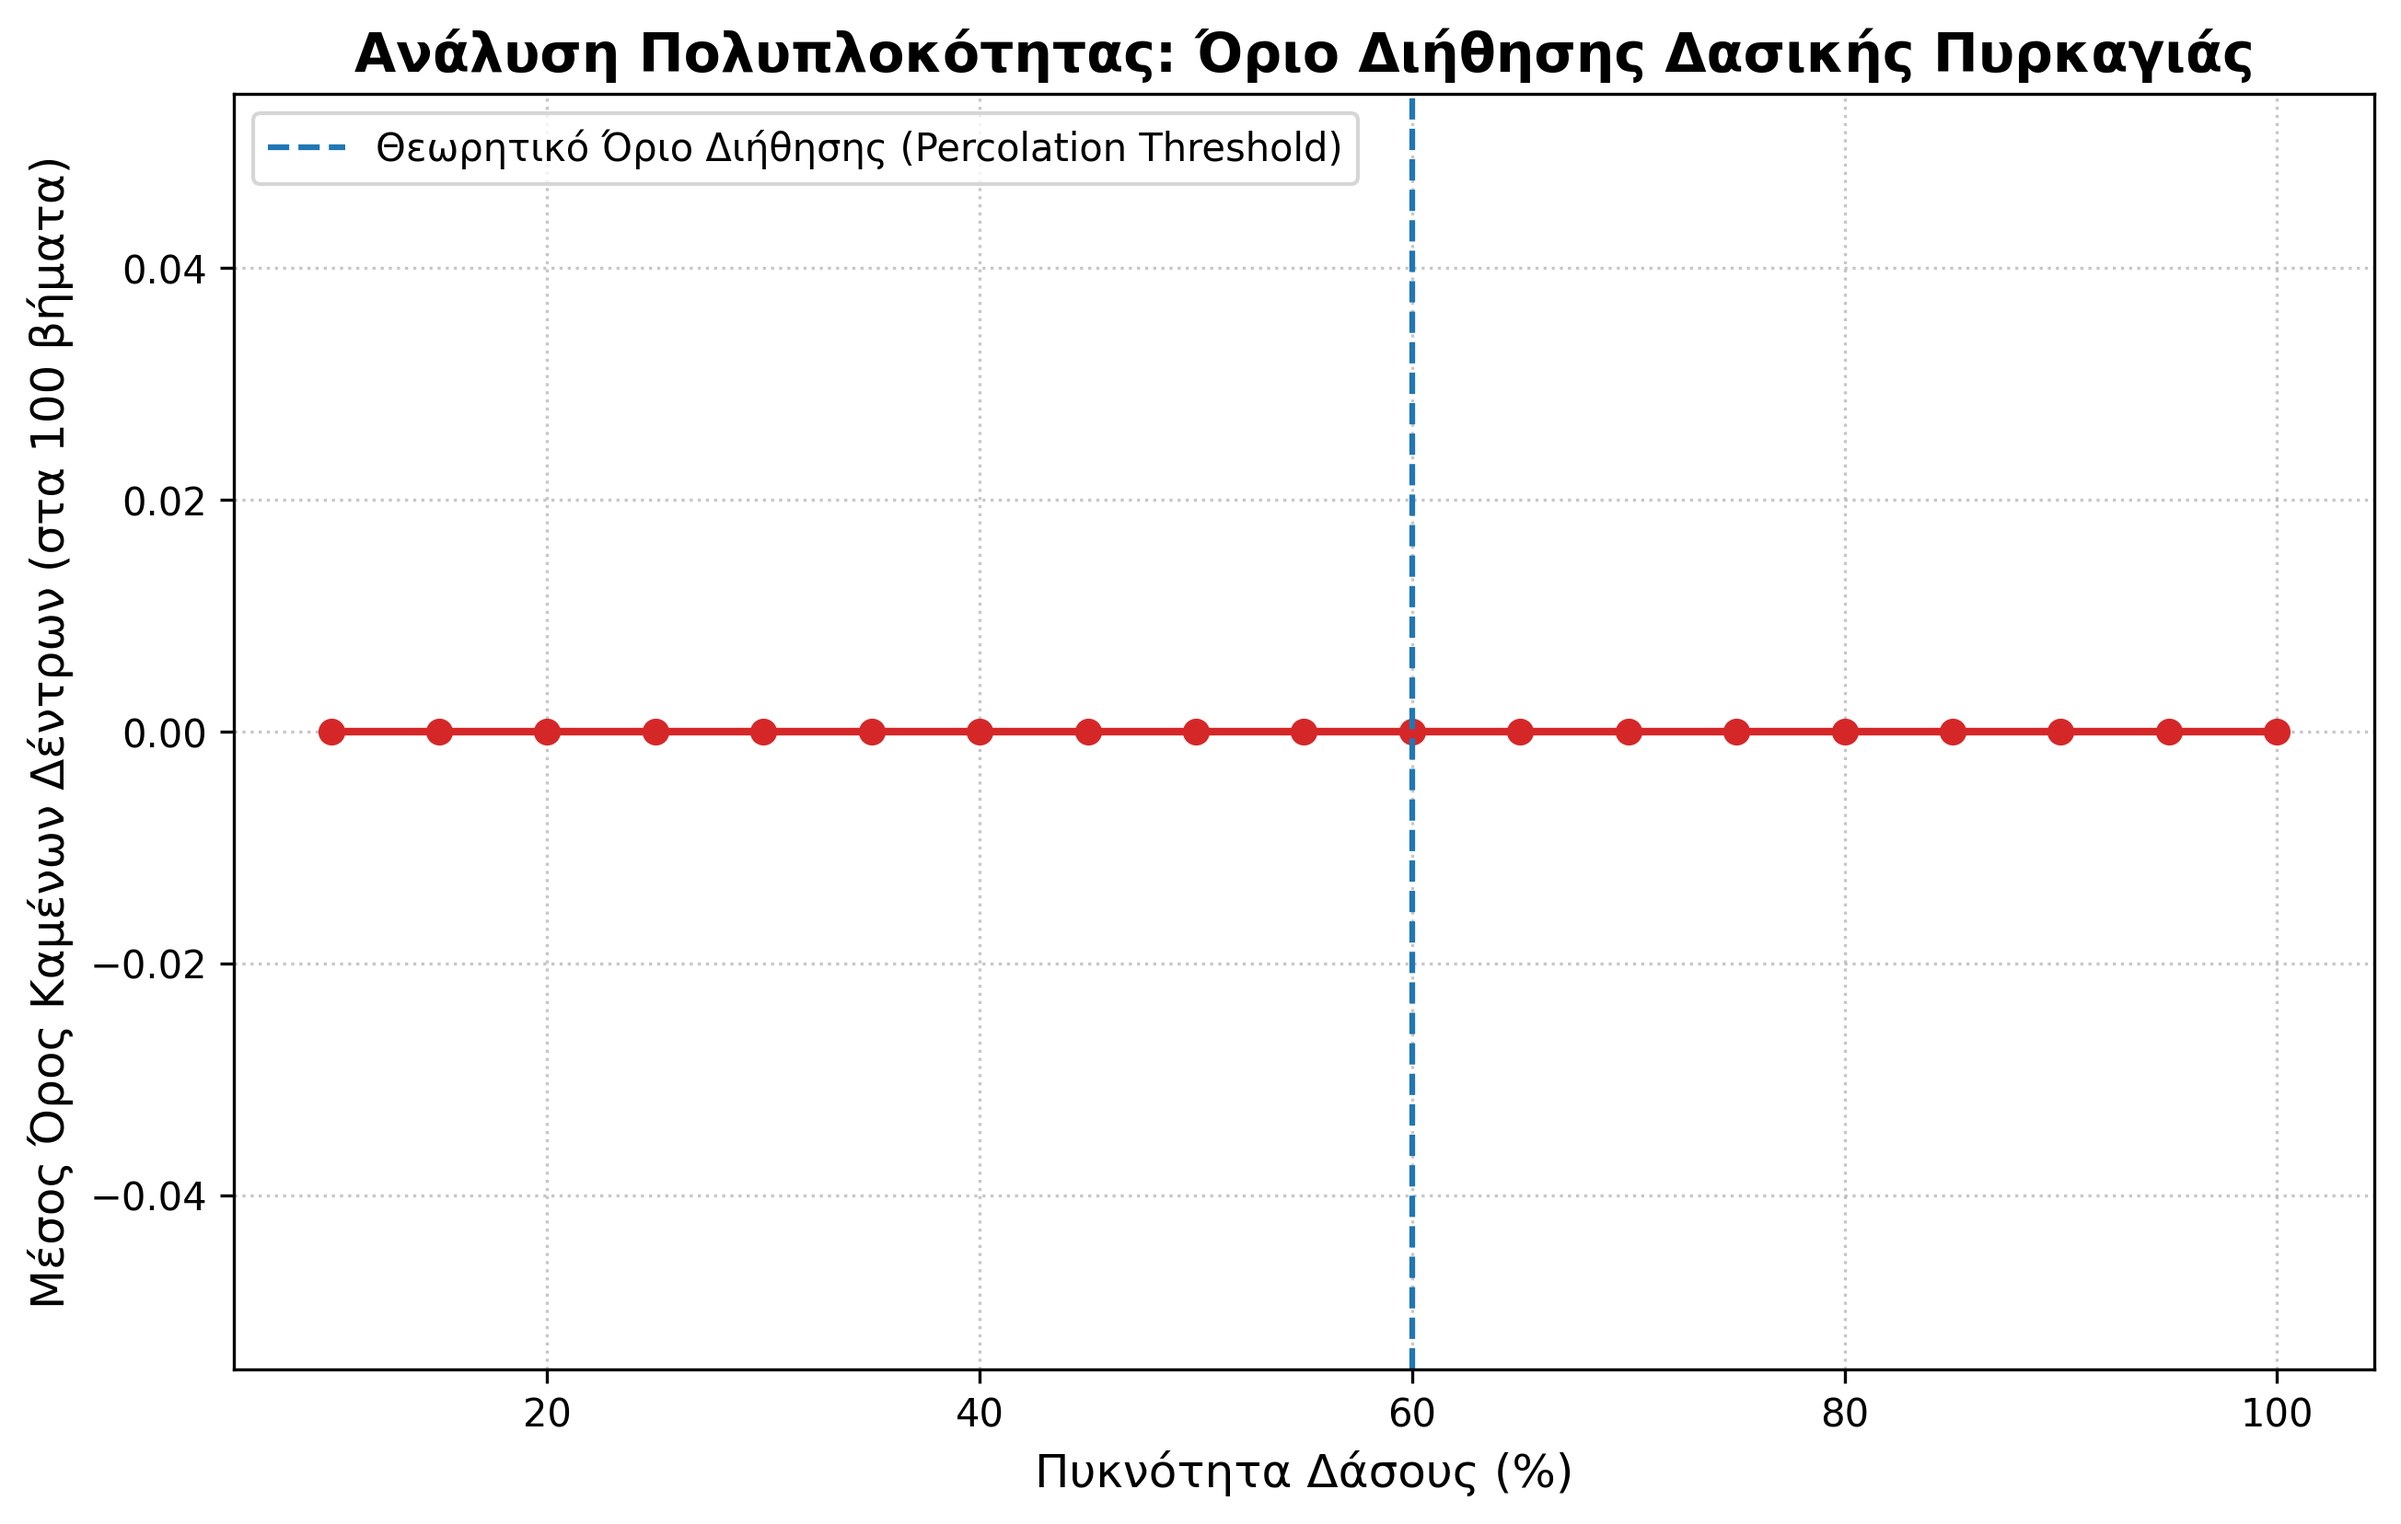
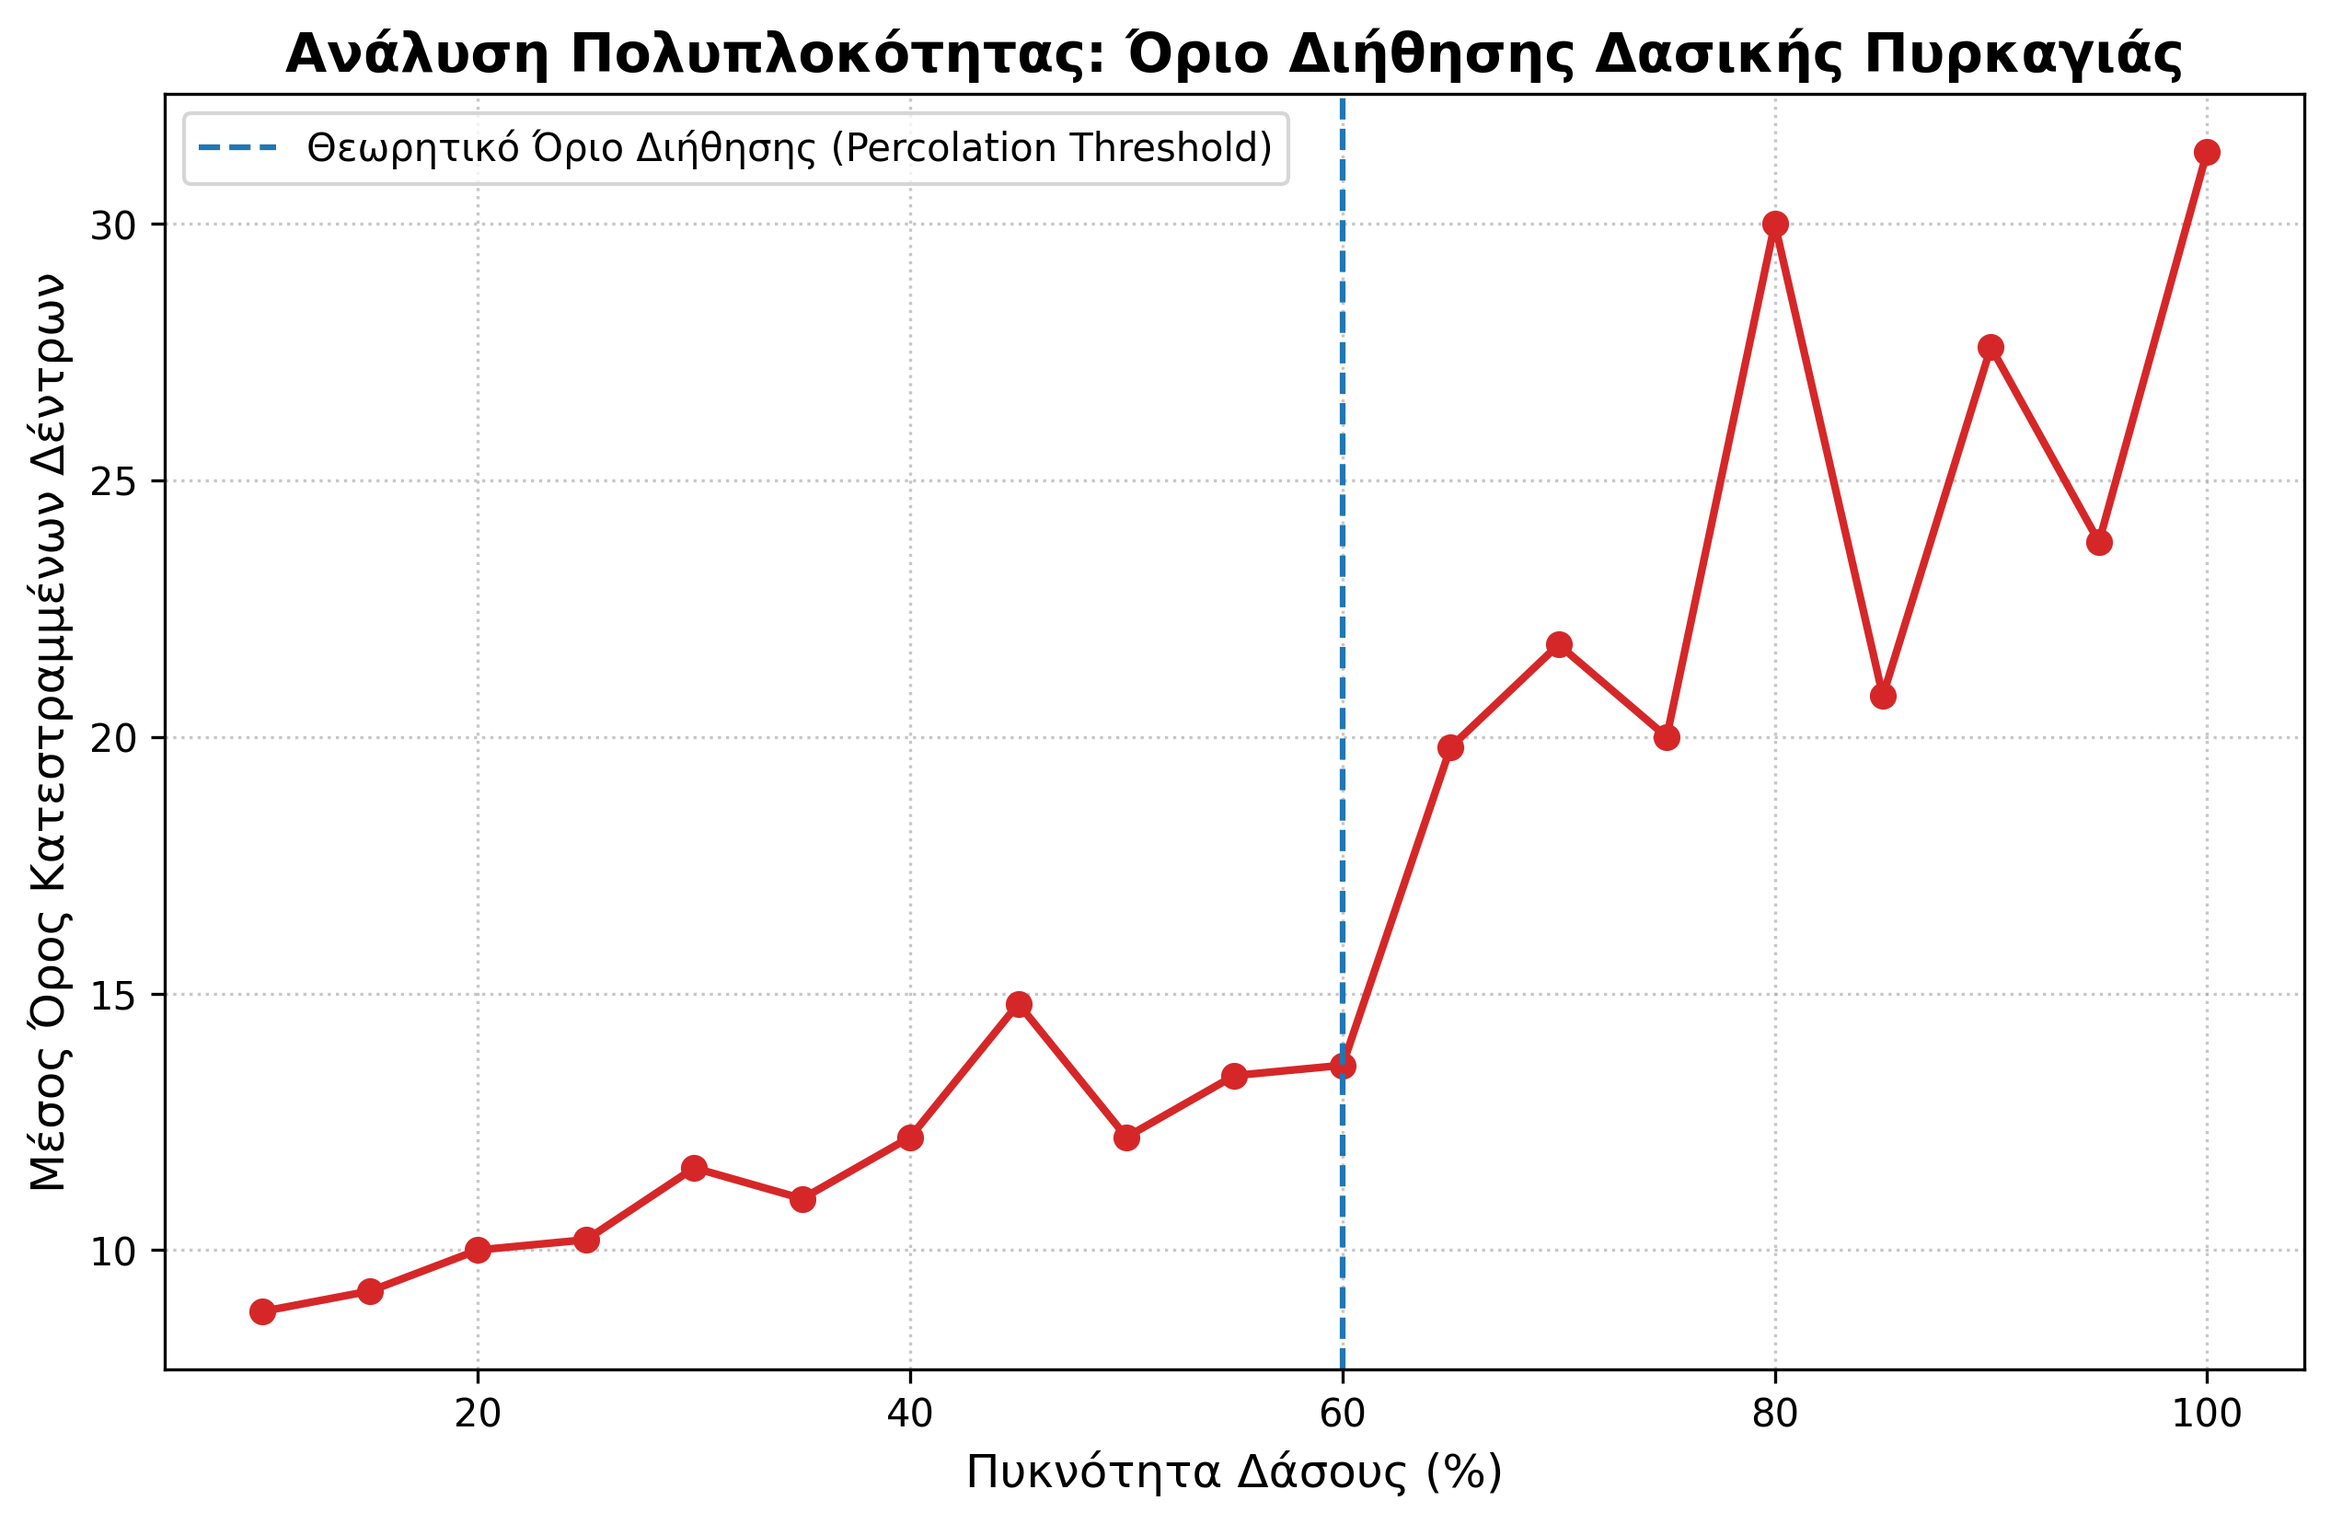
Commit

diff --git a/Python/analysis.py b/Python/analysis.py
@@ -3,23 +3,24 @@ import pandas as pd
 from mesa import batch_run
 from model import WildfireModel
 
-print("🔥 Ξεκινάει η προσομοίωση παρτίδων (Batch Run)...")
-print("Αυτό μπορεί να πάρει 1-2 λεπτά, παρακαλώ περιμένετε!\n")
+print("🔥 Starting batch simulation (Batch Run)...")
+print("This may take 1-2 minutes, please wait...\n")
 
 params = {
     "width": 30,
     "height": 30,
     "num_scouters": 0,  
     "num_units": 0,     
-    "wind_strength": 0.0,
+    "wind_strength": 0.0, 
+    "burn_time": 10, 
     "tree_density": range(10, 101, 5) 
 }
 
 results = batch_run(
     WildfireModel,
     parameters=params,
-    iterations=5,
-    max_steps=100,     
+    iterations=5,        
+    max_steps=200,     
     number_processes=1,  
     data_collection_period=-1, 
     display_progress=True
@@ -27,19 +28,21 @@ results = batch_run(
 
 df = pd.DataFrame(results)
 
-summary = df.groupby("tree_density")["Burnt"].mean().reset_index()
+df["Total_Destroyed"] = df["Burnt"] + df["Burning"]
+
+summary = df.groupby("tree_density")["Total_Destroyed"].mean().reset_index()
 
 plt.figure(figsize=(10, 6))
-plt.plot(summary["tree_density"], summary["Burnt"], marker='o', linestyle='-', color='#d62728', linewidth=2)
+plt.plot(summary["tree_density"], summary["Total_Destroyed"], marker='o', linestyle='-', color='#d62728', linewidth=2)
 
-plt.axvline(x=60, color='#1f77b4', linestyle='--', label='Θεωρητικό Όριο Διήθησης (Percolation Threshold)')
+plt.axvline(x=60, color='#1f77b4', linestyle='--', label='Theoretical Percolation Threshold')
 
-plt.title("Ανάλυση Πολυπλοκότητας: Όριο Διήθησης Δασικής Πυρκαγιάς", fontsize=14, fontweight='bold')
-plt.xlabel("Πυκνότητα Δάσους (%)", fontsize=12)
-plt.ylabel("Μέσος Όρος Καμένων Δέντρων (στα 100 βήματα)", fontsize=12)
+plt.title("Complexity Analysis: Forest Fire Percolation Threshold", fontsize=14, fontweight='bold')
+plt.xlabel("Forest Density (%)", fontsize=12)
+plt.ylabel("Average Destroyed Trees", fontsize=12)
 plt.grid(True, linestyle=':', alpha=0.7)
 plt.legend()
 
 plt.savefig("percolation_plot.png", dpi=300, bbox_inches='tight')
-print("\n✅ Η ανάλυση ολοκληρώθηκε! Η εικόνα αποθηκεύτηκε ως 'percolation_plot.png'.")
+print("\n✅ Analysis complete! The plot has been saved as 'percolation_plot.png'.")
 plt.show()
